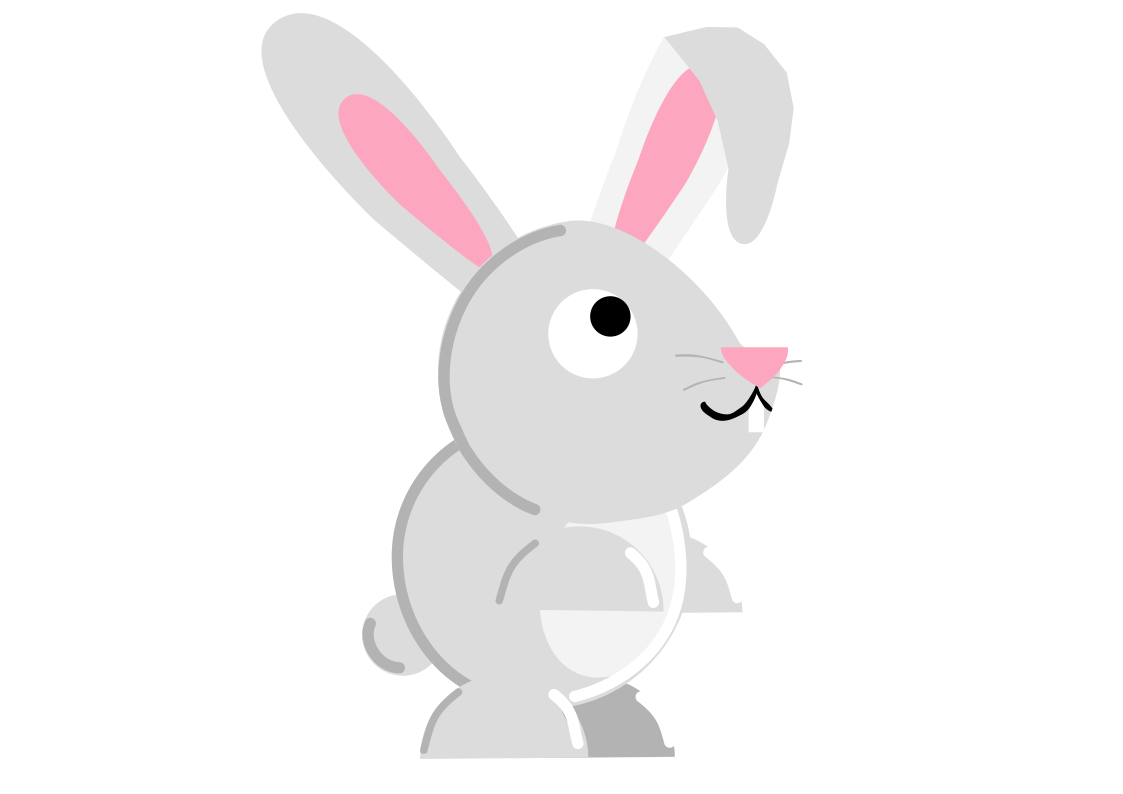
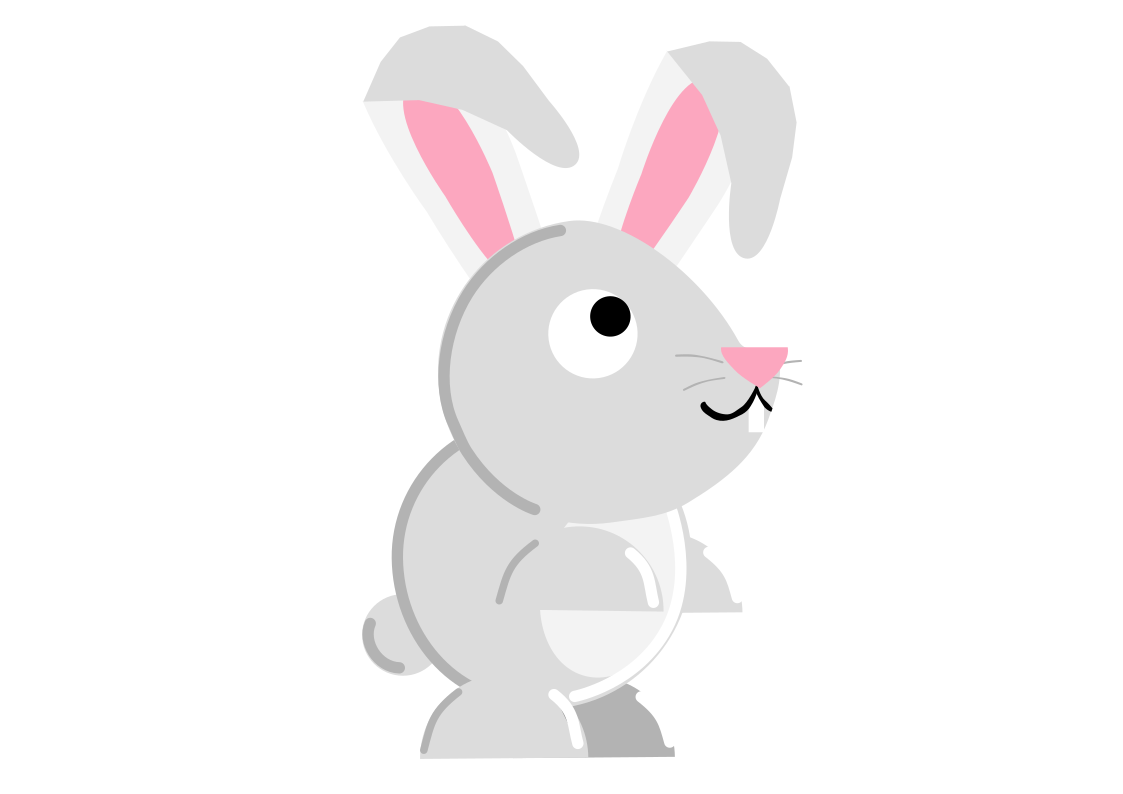
new accessories

diff --git a/src/components/Accessory.js b/src/components/Accessory.js
@@ -6,7 +6,8 @@ const Accessory = () => {
     let accessorySrc;
 
 
-    const month = new Date().getMonth(); // 0-alapú hónap (0: január, 1: február, ... 11: december)
+    const month = new Date().getMonth();
+    const day = new Date().getDate();
 
     if (month >= 2 && month <= 4) {
         accessorySrc = 'images/flower.png';
@@ -16,6 +17,24 @@ const Accessory = () => {
         accessorySrc = 'images/raincoat.png';
     } else {
         accessorySrc = 'images/scarf.png';
+    }
+
+    const isChristmas = (month === 11 && day === 25);
+    const isEaster = (month === 3 && day >= 22 && day <= 28);
+    const isNewYear = (month === 0 && day === 1);
+    const isHalloween = (month === 9 && day === 31);
+    const isValentinesDay = (month === 1 && day === 14);
+
+    if (isChristmas) {
+        accessorySrc = 'images/santahat.png';
+    } else if (isEaster) {
+        accessorySrc = 'images/easteregg.png';
+    } else if (isNewYear) {
+        accessorySrc = 'images/balloon.png';
+    } else if (isHalloween) {
+        accessorySrc = 'images/pumpkin.png'; // Halloween tök
+    } else if (isValentinesDay) {
+        accessorySrc = 'images/valentine.png';
     }
 
     return (

diff --git a/src/components/CategoryAndNumOfLettersToChoose.js b/src/components/CategoryAndNumOfLettersToChoose.js
@@ -156,7 +156,7 @@ function CategoryAndNumOfLettersToChoose() {
                 <ClearLocalStorageButton />
                 <FullscreenButton />
             </div>
-            <h1>Feed the mouse - by guessing a word!</h1>
+            <h1>Feed the mouse (or another animal) - by guessing a word!</h1>
             <form onSubmit={handleSubmit}>
                 <label>Pick a character:</label>
                 <br /><br />

diff --git a/src/css/CategoryAndNumOfLettersToChoose.css b/src/css/CategoryAndNumOfLettersToChoose.css
@@ -112,6 +112,10 @@ div.selectContainer {
 }
 
 @media only screen and (max-width: 600px) {
+    h1, form{
+        font-size: 13px;
+    }
+
     #errorMsg {
         font-size: 12.5px;
     }

diff --git a/src/index.css b/src/index.css
@@ -24,7 +24,7 @@ body {
   -webkit-font-smoothing: antialiased;
   -moz-osx-font-smoothing: grayscale;
   overflow: auto;
-  height: 97%;
+  height: 100%;
 }
 
 code {
